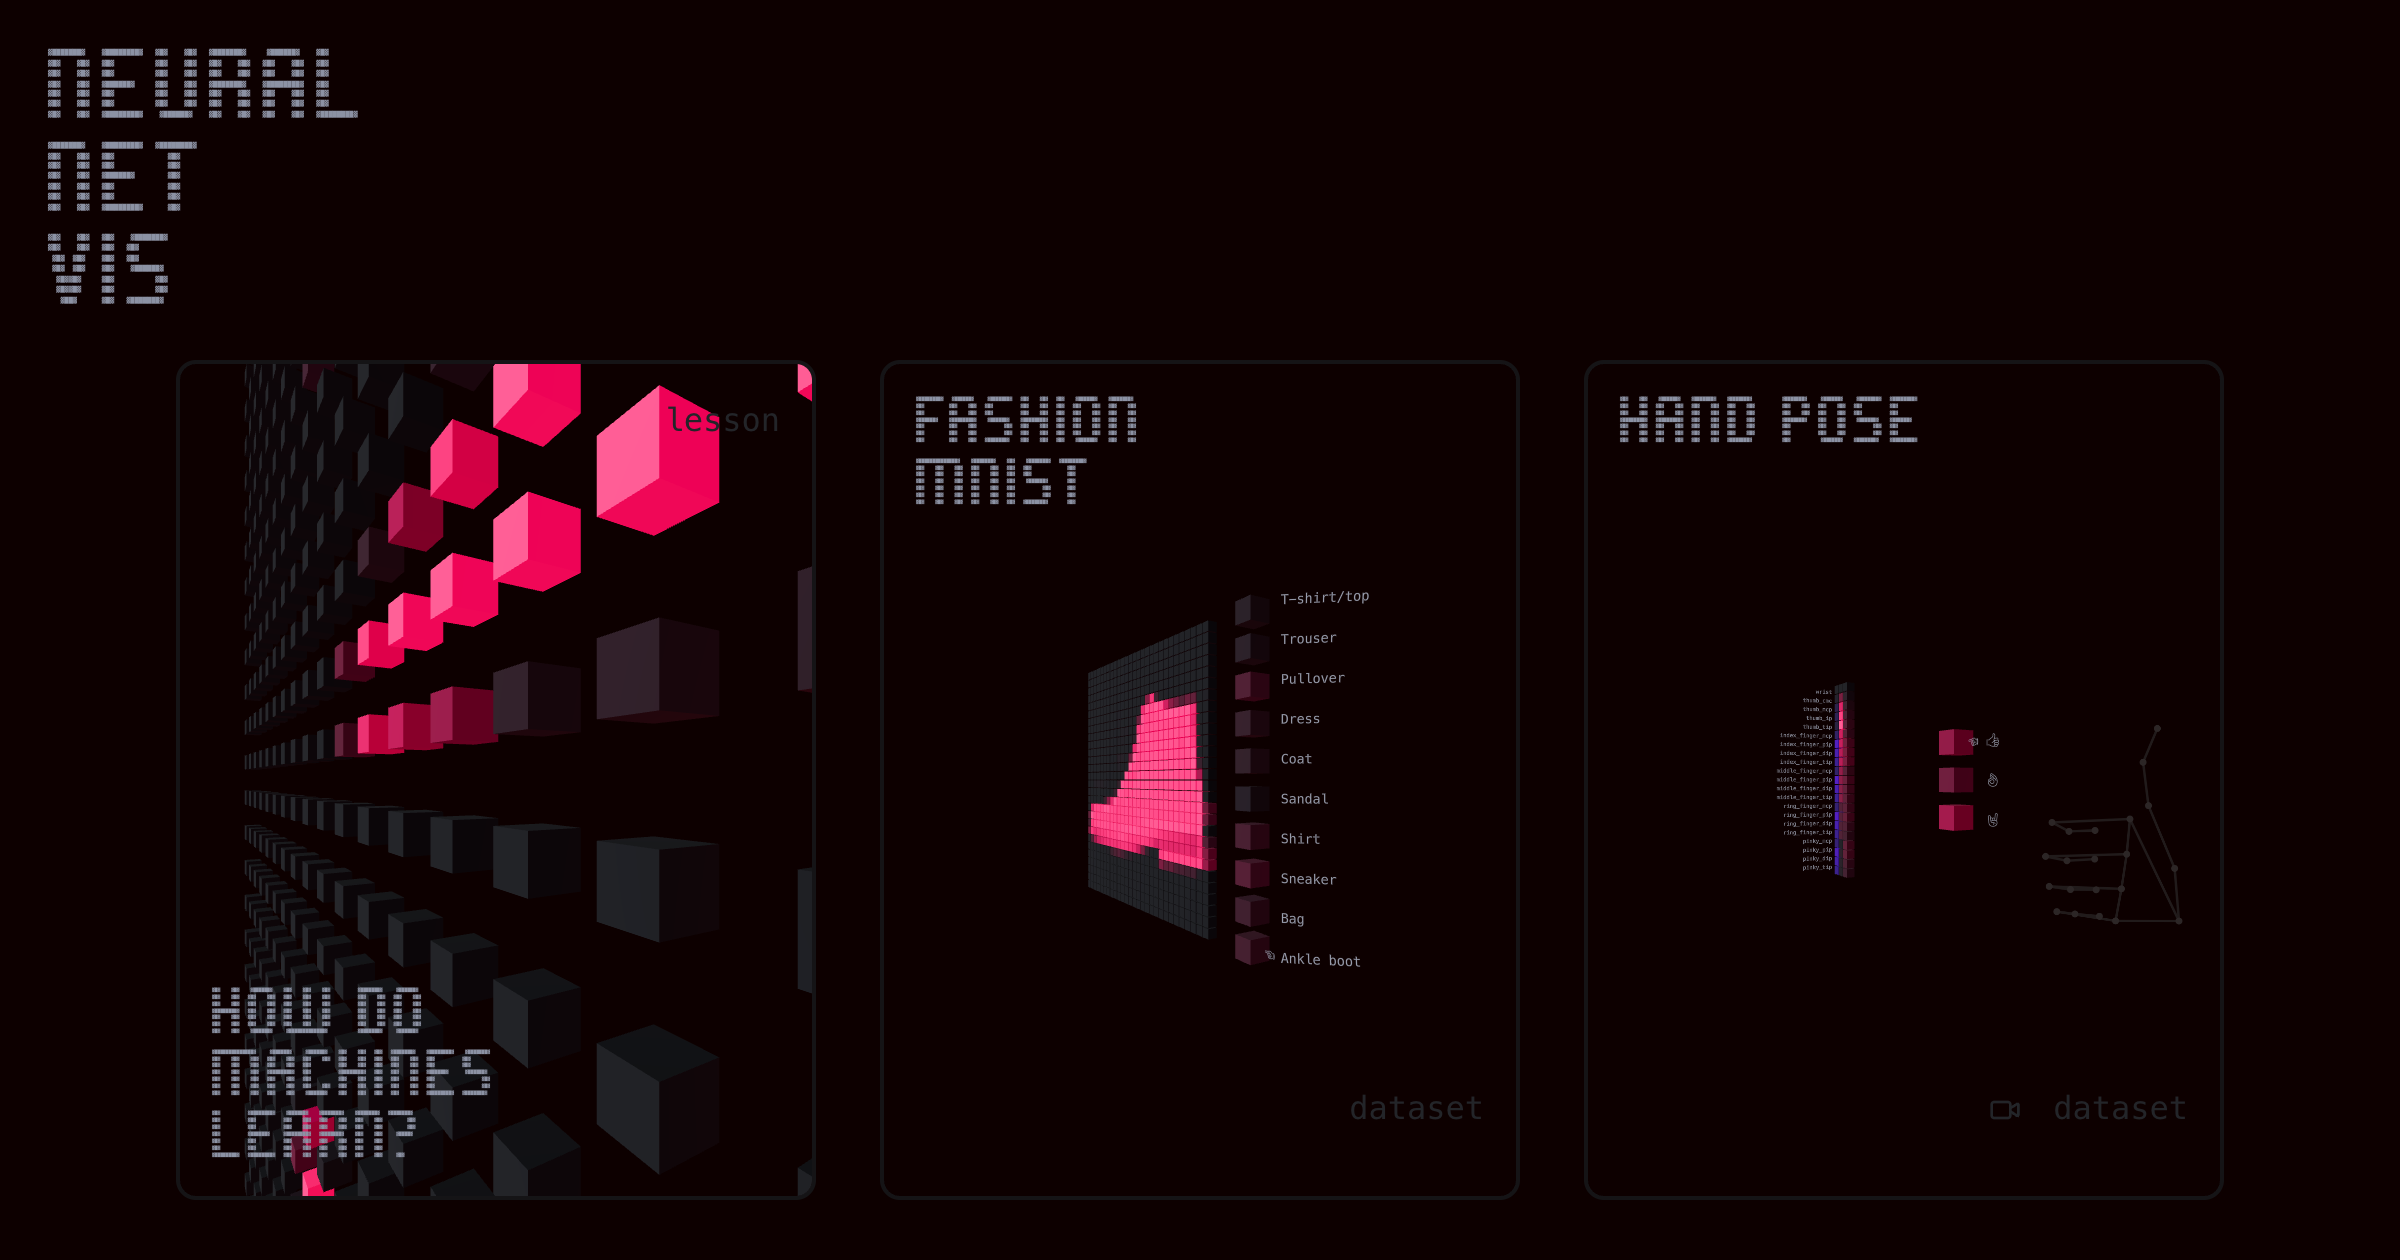
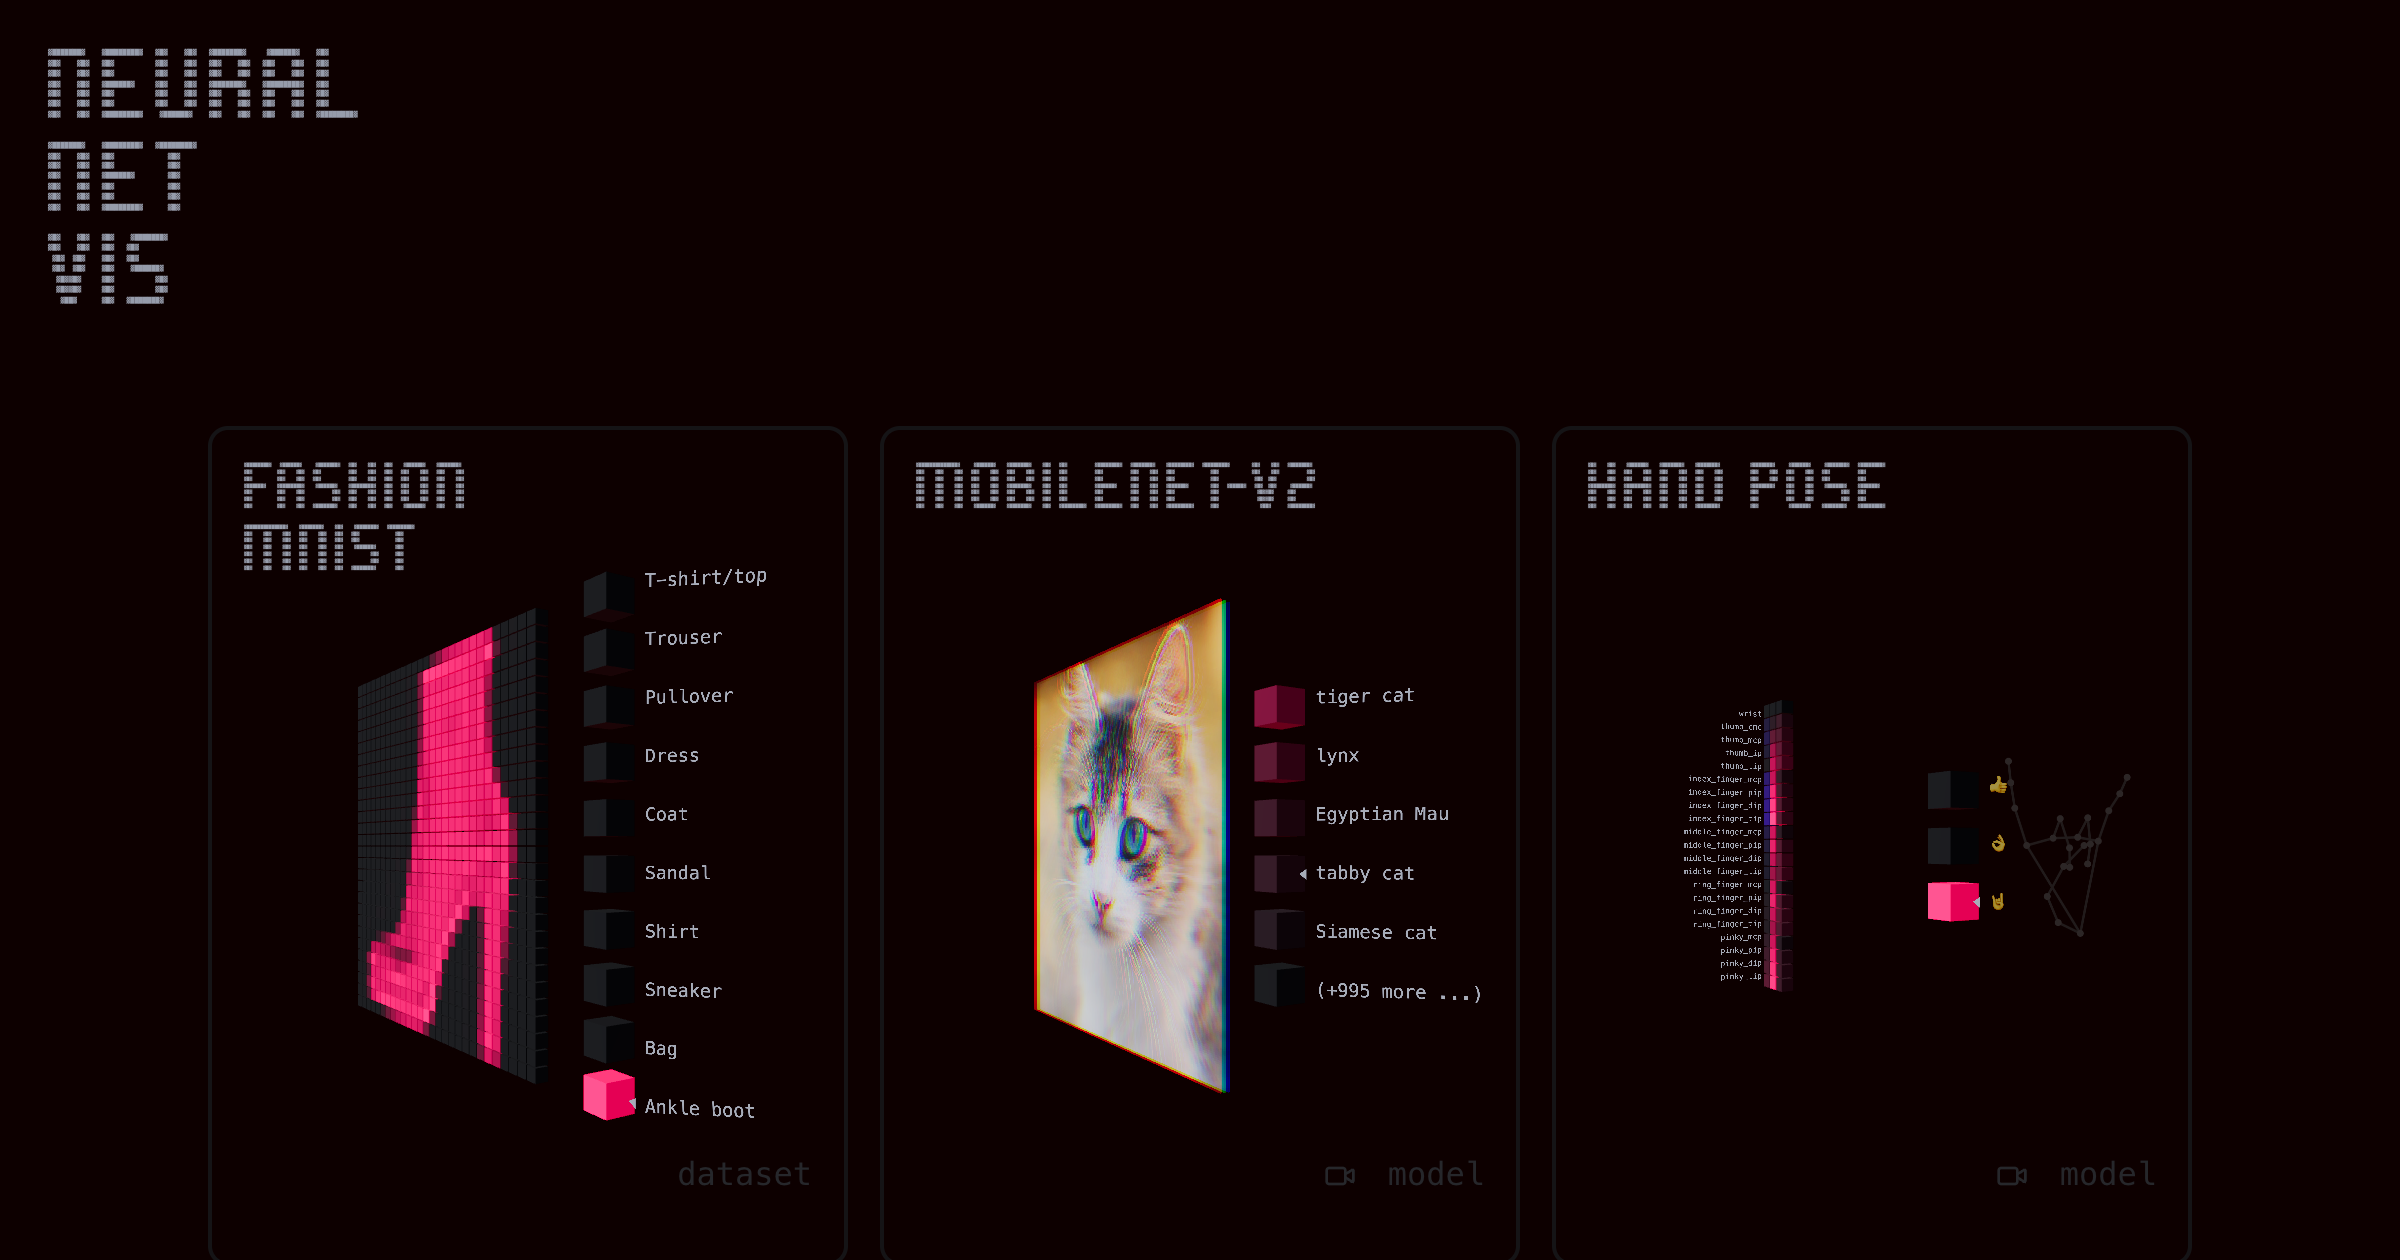
add new screenshots

diff --git a/src/utils/screenshot.ts b/src/utils/screenshot.ts
@@ -1,0 +1,27 @@
+import { useEffect } from "react"
+import { useSearchParams } from "next/navigation"
+import { useSceneStore } from "@/store"
+
+const useIsScreenshot = () =>
+  typeof useSearchParams().get("screenshot") === "string"
+
+export function useScreenshotBodyClass() {
+  const isScreenshot = useIsScreenshot()
+  useEffect(() => {
+    if (isScreenshot) document.body.classList.add("screenshot")
+    return () => document.body.classList.remove("screenshot")
+  }, [isScreenshot])
+}
+
+export function useScreenshotSettings(isActive: boolean) {
+  const isScreenshot = useIsScreenshot()
+  const setLoadWeights = useSceneStore((s) => s.setLoadWeights)
+  const setLoadFullDs = useSceneStore((s) => s.setLoadFullDs)
+  const setVisConfig = useSceneStore((s) => s.vis.setConfig)
+  useEffect(() => {
+    if (!isActive) return
+    setLoadFullDs(true)
+    setLoadWeights(true)
+    setVisConfig({ showHiddenLayers: true })
+  }, [isActive, isScreenshot, setLoadFullDs, setLoadWeights, setVisConfig])
+}

diff --git a/src/utils/debug.ts b/src/utils/debug.ts
@@ -1,5 +1,3 @@
-import { useEffect } from "react"
-import { useSearchParams } from "next/navigation"
 import * as tf from "@tensorflow/tfjs"
 import { useGlobalStore, isDebug, setStatus, getThree, getScene } from "@/store"
 import { getAvailableBackends, type Backend } from "@/model/tf-backend"
@@ -52,13 +50,4 @@ function showStats() {
   const tfVars = tfEngine.state.registeredVariables
   // const wasmThreads = getThreadsCount()
   console.log({ appState, scene, glInfo, tfEngine, tfVars })
-}
-
-export function useScreenshotBodyClass() {
-  const searchParams = useSearchParams()
-  const isScreenshot = typeof searchParams.get("screenshot") === "string"
-  useEffect(() => {
-    if (isScreenshot) document.body.classList.add("screenshot")
-    return () => document.body.classList.remove("screenshot")
-  }, [isScreenshot])
 }

diff --git a/src/scene-views/scene-viewer.tsx b/src/scene-views/scene-viewer.tsx
@@ -22,6 +22,7 @@ import { Portal } from "@/components/portal"
 import { SampleViewer } from "./sample-viewer"
 
 import type { TileDef } from "@/components/tile-grid"
+import { useScreenshotSettings } from "@/utils/screenshot"
 
 type SceneViewerProps = TileDef & {
   isActive: boolean
@@ -42,6 +43,7 @@ function SceneViewerInner(props: SceneViewerProps) {
   const showSampleViewer =
     isActive && (!!sampleViewerIdxs.length || dsDef?.sampleViewer)
   const ownCanvas = !!dsDef?.mapProps
+  useScreenshotSettings(isActive)
   return (
     <div
       className={`flex justify-center items-center w-full h-full`}

diff --git a/src/components/app.tsx b/src/components/app.tsx
@@ -2,7 +2,8 @@
 
 import { useRef } from "react"
 import { useTfBackend } from "@/model/tf-backend"
-import { useDebugCommands, useScreenshotBodyClass } from "@/utils/debug"
+import { useDebugCommands } from "@/utils/debug"
+import { useScreenshotBodyClass } from "@/utils/screenshot"
 import { Header } from "./header"
 import { LessonOverlayPortal } from "./lesson"
 import { MainCanvas } from "./canvas"

diff --git a/screenshot.ts b/screenshot.ts
@@ -28,7 +28,7 @@ async function run() {
     await page.goto(`http://localhost:${PORT}/${p}?screenshot`)
     const title = await page.title()
     console.log(title)
-    await new Promise((resolve) => setTimeout(resolve, 1000))
+    await new Promise((resolve) => setTimeout(resolve, 1500))
     const path = `${SCREENSHOT_FOLDER}/${
       pathToFileName(p) || "default"
     }.png` as `${string}.png`

diff --git a/src/scene-views/scene-buttons.tsx b/src/scene-views/scene-buttons.tsx
@@ -55,7 +55,7 @@ export function LoadWeightsButton() {
   const isPreview = ds.model.lazyLoadWeights && loadState === "no-weights"
   if (!isPreview || shouldLoadWeights) return null
   return (
-    <div className="flex gap-2">
+    <div className="flex gap-2 screenshot:hidden">
       <span className="text-accent">PREVIEW</span>
       <Button
         onClick={(e) => {

diff --git a/README.md b/README.md
@@ -2,7 +2,9 @@
 
 Wrap your head around neural networks and watch machines learning: NeuralNetVis is a platform for visualizing and exploring neural networks in your browser. Built with [TensorFlow.js](https://github.com/tensorflow/tfjs) and [three.js](https://github.com/mrdoob/three.js).
 
-Live here: [https://neuralnetvis.app](https://neuralnetvis.app)
+**Live here: [https://neuralnetvis.app](https://neuralnetvis.app)**
+
+![](screenshot.png)
 
 ## Performance
 
